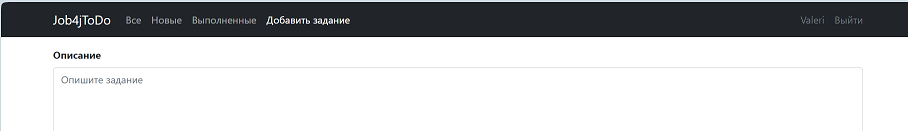
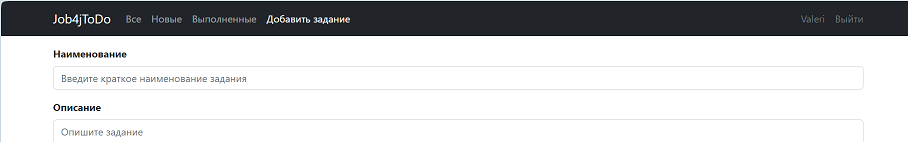
4. TODO list [#3786 #455840]

diff --git a/src/main/resources/templates/tasks/edit.html b/src/main/resources/templates/tasks/edit.html
@@ -41,8 +41,16 @@
             <div class="row mb-3">
                 <div class="col-9">
                     <div class="mb-3">
+                        <label for="title" class="form-label"><b>Наименование задания</b></label>
+                        <input type="text" class="form-control" id="title" name="title" th:field="*{title}" placeholder="Введите краткое наименование задания">
+                    </div>
+                </div>
+            </div>
+            <div class="row mb-3">
+                <div class="col-9">
+                    <div class="mb-3">
                         <label for="description" class="form-label"><b>Описание</b></label>
-                        <textarea class="form-control" id="description" name="description" th:field="*{description}" rows="20" placeholder="Опишите задание"></textarea>
+                        <textarea class="form-control" id="description" name="description" th:field="*{description}" rows="16" placeholder="Опишите задание"></textarea>
                     </div>
                 </div>
             </div>

diff --git a/src/main/resources/templates/tasks/create.html b/src/main/resources/templates/tasks/create.html
@@ -37,8 +37,12 @@
     <div class="container">
         <form class="mt-3" th:action="@{/tasks/create}" method="post" enctype="multipart/form-data">
             <div class="mb-3">
+                <label for="title" class="form-label"><b>Наименование</b></label>
+                <input type="text" class="form-control" id="title" name="title" placeholder="Введите краткое наименование задания">
+            </div>
+            <div class="mb-3">
                 <label for="description" class="form-label"><b>Описание</b></label>
-                <textarea class="form-control" id="description" name="description" rows="20" placeholder="Опишите задание"></textarea>
+                <textarea class="form-control" id="description" name="description" rows="17" placeholder="Опишите задание"></textarea>
             </div>
             <div class="mb-3 row">
                 <div class="col-6"></div>

diff --git a/src/main/resources/templates/tasks/done.html b/src/main/resources/templates/tasks/done.html
@@ -41,7 +41,7 @@
                     <thead>
                     <tr>
                         <th scope="col">#</th>
-                        <th scope="col">Описание</th>
+                        <th scope="col">Наименование</th>
                         <th scope="col">Дата создания</th>
                         <th scope="col">Статус</th>
                     </tr>
@@ -49,7 +49,7 @@
                     <tbody>
                     <tr th:each="task: ${tasks}">
                         <td><a th:text="${task.id}" th:href="@{/tasks/{taskId}(taskId=${task.id})}"></a></td>
-                        <td th:text="${task.description}" />
+                        <td th:text="${task.title}" />
                         <td th:text="${task.created}" />
                         <td th:text="${task.done}" />
                     </tr>

diff --git a/src/main/resources/templates/tasks/list.html b/src/main/resources/templates/tasks/list.html
@@ -41,7 +41,7 @@
                     <thead>
                     <tr>
                         <th scope="col">#</th>
-                        <th scope="col">Описание</th>
+                        <th scope="col">Наименование</th>
                         <th scope="col">Дата создания</th>
                         <th scope="col">Статус</th>
                     </tr>
@@ -49,7 +49,7 @@
                     <tbody>
                     <tr th:each="task: ${tasks}">
                         <td><a th:text="${task.id}" th:href="@{/tasks/{taskId}(taskId=${task.id})}"></a></td>
-                        <td th:text="${task.description}" />
+                        <td th:text="${task.title}" />
                         <td th:text="${task.created}" />
                         <td th:text="${task.done}" />
                     </tr>

diff --git a/src/main/resources/templates/tasks/one.html b/src/main/resources/templates/tasks/one.html
@@ -41,6 +41,7 @@
                     <thead>
                     <tr>
                         <th scope="col">#</th>
+                        <th scope="col">Наименование</th>
                         <th scope="col">Описание</th>
                         <th scope="col">Дата создания</th>
                         <th scope="col">Статус</th>
@@ -49,6 +50,7 @@
                     <tbody>
                     <tr>
                         <td th:text="${task.id}" />
+                        <td th:text="${task.title}" />
                         <td th:text="${task.description}" />
                         <td th:text="${task.created}" />
                         <td th:text="${task.done}" />

diff --git a/src/main/resources/templates/tasks/new.html b/src/main/resources/templates/tasks/new.html
@@ -41,7 +41,7 @@
           <thead>
           <tr>
             <th scope="col">#</th>
-            <th scope="col">Описание</th>
+            <th scope="col">Наименование</th>
             <th scope="col">Дата создания</th>
             <th scope="col">Статус</th>
           </tr>
@@ -49,7 +49,7 @@
           <tbody>
           <tr th:each="task: ${tasks}">
             <td><a th:text="${task.id}" th:href="@{/tasks/{taskId}(taskId=${task.id})}"></a></td>
-            <td th:text="${task.description}" />
+            <td th:text="${task.title}" />
             <td th:text="${task.created}" />
             <td th:text="${task.done}" />
           </tr>

diff --git a/src/main/java/ru/job4j/todo/controller/TaskController.java b/src/main/java/ru/job4j/todo/controller/TaskController.java
@@ -26,14 +26,9 @@ public class TaskController {
     }
 
     @PostMapping("/create")
-    public String create(@ModelAttribute Task task, Model model) {
-        try {
-            taskService.save(task);
-            return "redirect:/tasks/list";
-        } catch (Exception exception) {
-            model.addAttribute("message", exception.getMessage());
-            return "errors/404";
-        }
+    public String create(@ModelAttribute Task task) {
+        taskService.save(task);
+        return "redirect:/tasks/list";
     }
 
     @GetMapping("/delete/{id}")
@@ -48,17 +43,12 @@ public class TaskController {
 
     @PostMapping("/update")
     public String update(@ModelAttribute Task task, Model model) {
-        try {
-            var isUpdated = taskService.update(task);
-            if (!isUpdated) {
-                model.addAttribute("message", "Задание с указанным идентификатором не найдено!");
-                return "errors/404";
-            }
-            return "redirect:/";
-        } catch (Exception exception) {
-            model.addAttribute("message", exception.getMessage());
+        var isUpdated = taskService.update(task);
+        if (!isUpdated) {
+            model.addAttribute("message", "Задание с указанным идентификатором не найдено!");
             return "errors/404";
         }
+        return "redirect:/";
     }
 
     @GetMapping("/{id}")
@@ -85,29 +75,23 @@ public class TaskController {
 
     @GetMapping("/done")
     public String getDonePage(Model model) {
-        model.addAttribute("tasks", taskService.findDone());
+        model.addAttribute("tasks", taskService.findByCondition(true));
         return "tasks/done";
     }
 
     @GetMapping("/new")
     public String getNewPage(Model model) {
-        model.addAttribute("tasks", taskService.findNew());
+        model.addAttribute("tasks", taskService.findByCondition(false));
         return "tasks/new";
     }
 
     @PostMapping("/complete")
     public String complete(@ModelAttribute Task task, Model model) {
-        try {
-            task.setDone(true);
-            var isUpdated = taskService.update(task);
-            if (!isUpdated) {
-                model.addAttribute("message", "Задание с указанным идентификатором не найдено!");
-                return "errors/404";
-            }
-            return "redirect:/tasks/list";
-        } catch (Exception exception) {
-            model.addAttribute("message", exception.getMessage());
+        var isUpdated = taskService.setDone(task);
+        if (!isUpdated) {
+            model.addAttribute("message", "Задание с указанным идентификатором не найдено!");
             return "errors/404";
         }
+        return "redirect:/tasks/list";
     }
 }

diff --git a/src/main/java/ru/job4j/todo/repository/SimpleTaskRepository.java b/src/main/java/ru/job4j/todo/repository/SimpleTaskRepository.java
@@ -56,7 +56,8 @@ public class SimpleTaskRepository implements TaskRepository {
         try {
             session.beginTransaction();
             result = session.createQuery(
-                            "UPDATE Task SET description = :fDescription, done = :fDone WHERE id = :fId")
+                            "UPDATE Task SET title = :fTitle, description = :fDescription, done = :fDone WHERE id = :fId")
+                    .setParameter("fTitle", task.getTitle())
                     .setParameter("fDescription", task.getDescription())
                     .setParameter("fDone", task.isDone())
                     .setParameter("fId", task.getId())
@@ -94,7 +95,7 @@ public class SimpleTaskRepository implements TaskRepository {
         List<Task> taskList = new ArrayList<>();
         try {
             session.beginTransaction();
-            taskList = session.createQuery("from Task", Task.class).list();
+            taskList = session.createQuery("from Task order by id", Task.class).list();
             session.getTransaction().commit();
         } catch (Exception e) {
             session.getTransaction().rollback();
@@ -105,12 +106,13 @@ public class SimpleTaskRepository implements TaskRepository {
     }
 
     @Override
-    public List<Task> findDone() {
+    public List<Task> findByCondition(boolean expression) {
         Session session = sf.openSession();
         List<Task> taskList = new ArrayList<>();
         try {
             session.beginTransaction();
-            taskList = session.createQuery("from Task where done = true", Task.class).list();
+            taskList = session.createQuery("from Task where done = :fExpression order by id", Task.class)
+                    .setParameter("fExpression", expression).list();
             session.getTransaction().commit();
         } catch (Exception e) {
             session.getTransaction().rollback();
@@ -121,18 +123,20 @@ public class SimpleTaskRepository implements TaskRepository {
     }
 
     @Override
-    public List<Task> findNew() {
+    public boolean setDone(Task task) {
         Session session = sf.openSession();
-        List<Task> taskList = new ArrayList<>();
+        int result = 0;
         try {
             session.beginTransaction();
-            taskList = session.createQuery("from Task where done = false", Task.class).list();
+            result = session.createQuery("UPDATE Task SET done = :fDone WHERE id = :fId")
+                    .setParameter("fDone", true)
+                    .setParameter("fId", task.getId())
+                    .executeUpdate();
             session.getTransaction().commit();
         } catch (Exception e) {
             session.getTransaction().rollback();
-        } finally {
-            session.close();
         }
-        return taskList;
+        session.close();
+        return result > 0;
     }
 }

diff --git a/src/main/java/ru/job4j/todo/Main.java b/src/main/java/ru/job4j/todo/Main.java
@@ -1,23 +1,11 @@
 package ru.job4j.todo;
 
-import org.hibernate.SessionFactory;
-import org.hibernate.boot.MetadataSources;
-import org.hibernate.boot.registry.StandardServiceRegistry;
-import org.hibernate.boot.registry.StandardServiceRegistryBuilder;
 import org.springframework.boot.SpringApplication;
 import org.springframework.boot.autoconfigure.SpringBootApplication;
-import org.springframework.context.annotation.Bean;
 
 @SpringBootApplication
 public class Main {
     public static void main(String[] args) {
         SpringApplication.run(Main.class, args);
-    }
-
-    @Bean(destroyMethod = "close")
-    public SessionFactory sf() {
-        final StandardServiceRegistry registry = new StandardServiceRegistryBuilder()
-                .configure().build();
-        return new MetadataSources(registry).buildMetadata().buildSessionFactory();
     }
 }

diff --git a/src/main/java/ru/job4j/todo/config/HibernateConfiguration.java b/src/main/java/ru/job4j/todo/config/HibernateConfiguration.java
@@ -1,0 +1,18 @@
+package ru.job4j.todo.config;
+
+import org.hibernate.SessionFactory;
+import org.hibernate.boot.MetadataSources;
+import org.hibernate.boot.registry.StandardServiceRegistry;
+import org.hibernate.boot.registry.StandardServiceRegistryBuilder;
+import org.springframework.context.annotation.Bean;
+import org.springframework.context.annotation.Configuration;
+
+@Configuration
+public class HibernateConfiguration {
+    @Bean(destroyMethod = "close")
+    public SessionFactory sf() {
+        final StandardServiceRegistry registry = new StandardServiceRegistryBuilder()
+                .configure().build();
+        return new MetadataSources(registry).buildMetadata().buildSessionFactory();
+    }
+}

diff --git a/src/main/java/ru/job4j/todo/service/SimpleTaskService.java b/src/main/java/ru/job4j/todo/service/SimpleTaskService.java
@@ -38,12 +38,12 @@ public class SimpleTaskService implements TaskService {
     }
 
     @Override
-    public List<Task> findDone() {
-        return taskRepository.findDone();
+    public List<Task> findByCondition(boolean expression) {
+        return taskRepository.findByCondition(expression);
     }
 
     @Override
-    public List<Task> findNew() {
-        return taskRepository.findNew();
+    public boolean setDone(Task task) {
+        return taskRepository.setDone(task);
     }
 }

diff --git a/src/main/java/ru/job4j/todo/model/Task.java b/src/main/java/ru/job4j/todo/model/Task.java
@@ -15,7 +15,8 @@ public class Task {
     @EqualsAndHashCode.Include
     private int id;
     @EqualsAndHashCode.Include
+    private String title;
     private String description;
     private LocalDateTime created = LocalDateTime.now();
-    private boolean done = false;
+    private boolean done;
 }
